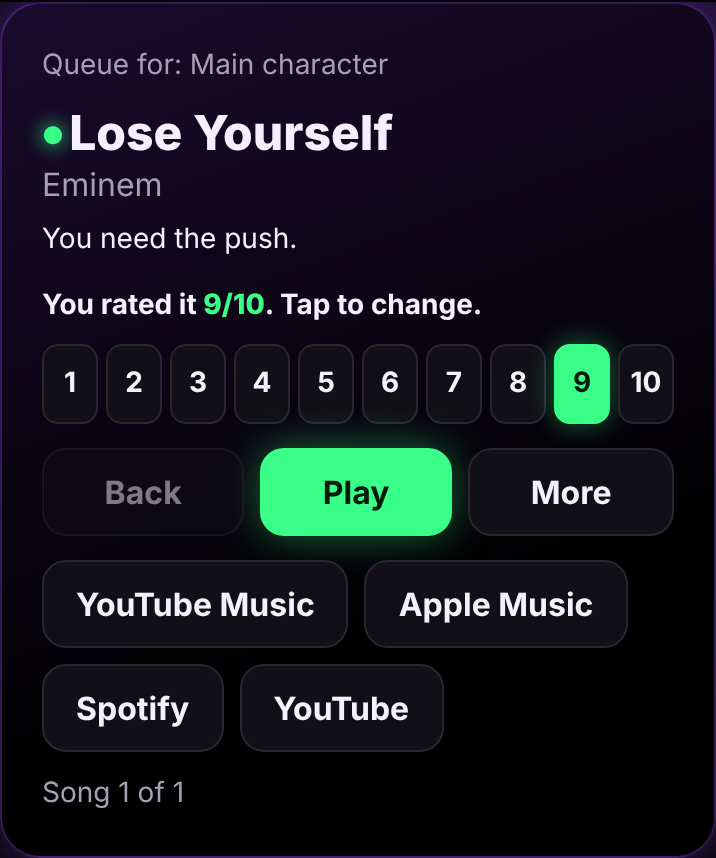
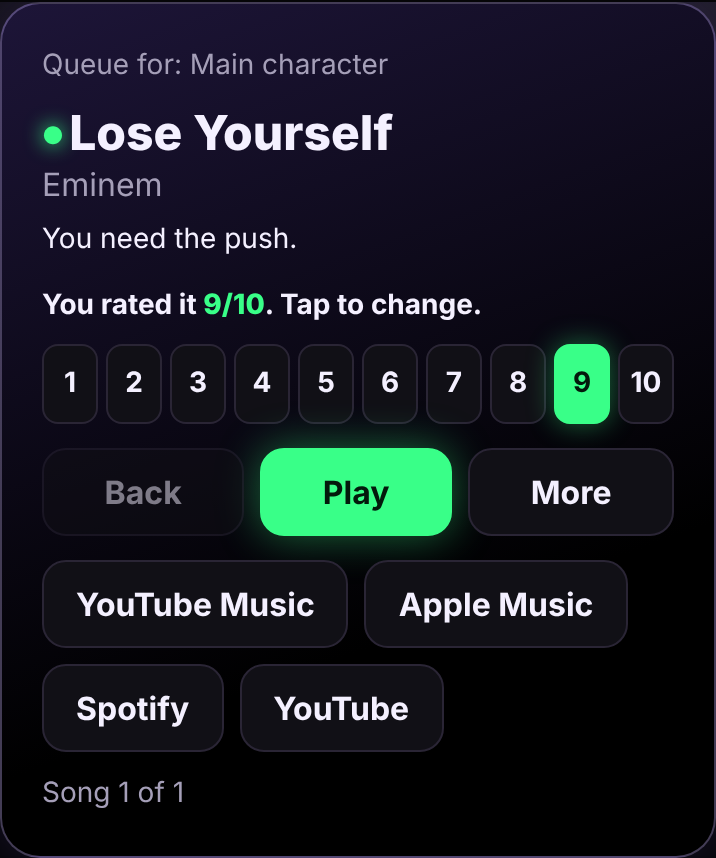
Soft violet palette: deep violet + lilac with neon green pop
Claude-Session: https://claude.ai/code/session_01EesmnuVbHcScWLZNPH6eYi

Changed region(s): [[0.9832, 0.0303, 1.0, 0.9697]]

diff --git a/public/styles.css b/public/styles.css
@@ -1,8 +1,8 @@
-/* STAR_BOA — black, electric purple, neon green for the pop */
+/* STAR_BOA — "Soft violet": black, deep violet + lilac (chill), neon green (pop) */
 :root {
   color-scheme: dark;
   --bg: #050507; --card: #111016; --ink: #f4f0ff; --mute: #a59fb8; --line: #2a2535;
-  --acc: #9d4dff; --accHi: #c08bff; --glow: #9d4dff66;
+  --acc: #3a2a6b; --accHi: #c9b3ff; --accInk: #f1ebff; --glow: #c9b3ff40;
   --neon: #39ff88; --neonInk: #031a0c; --neonGlow: #39ff8866;
 }
 * { box-sizing: border-box; min-width: 0; }
@@ -10,7 +10,7 @@ body {
   margin: 0; color: var(--ink); overflow-x: clip;
   font: 16px/1.55 Archivo, system-ui, sans-serif;
   background:
-    radial-gradient(900px 500px at 85% -10%, #9d4dff2e, transparent 70%),
+    radial-gradient(900px 500px at 85% -10%, #c9b3ff2e, transparent 70%),
     radial-gradient(700px 420px at -10% 105%, #39ff8814, transparent 70%),
     var(--bg);
   background-attachment: fixed;
@@ -22,7 +22,7 @@ body {
 }
 header { display: flex; align-items: center; justify-content: space-between; gap: 12px; flex-wrap: wrap; }
 h1 { display: inline-block; font-size: clamp(32px, 7vw, 48px); line-height: 1.05; margin: 0; font-weight: 800; letter-spacing: -.02em;
-  background: linear-gradient(90deg, #f4f0ff 0%, #c08bff 55%, var(--neon) 100%); -webkit-background-clip: text; background-clip: text; color: transparent;
+  background: linear-gradient(90deg, #f1ebff 0%, var(--accHi) 50%, var(--neon) 100%); -webkit-background-clip: text; background-clip: text; color: transparent;
   filter: drop-shadow(0 0 18px var(--glow)); }
 h2 { font-size: 22px; line-height: 1.2; margin: 28px 0 6px; }
 .h3 { font-size: 20px; margin: 0 0 4px; }
@@ -34,7 +34,7 @@ h2 { font-size: 22px; line-height: 1.2; margin: 28px 0 6px; }
 
 nav { display: flex; gap: 6px; margin: 20px 0 18px; border-bottom: 1px solid var(--line); }
 nav a { flex: 1; text-align: center; padding: 12px 6px; color: var(--mute); text-decoration: none; font-weight: 700; border-bottom: 3px solid transparent; margin-bottom: -1px; }
-nav a[aria-current=page] { color: var(--ink); border-image: linear-gradient(90deg, var(--acc), var(--neon)) 1; }
+nav a[aria-current=page] { color: var(--ink); border-image: linear-gradient(90deg, var(--accHi), var(--neon)) 1; }
 section[hidden] { display: none; }
 
 button, .btn {
@@ -44,12 +44,13 @@ button, .btn {
 }
 button:disabled { opacity: .5; cursor: not-allowed; }
 :focus-visible { outline: 3px solid var(--accHi); outline-offset: 2px; }
-.primary, .btn.on { background: var(--acc); border-color: var(--accHi); color: #fff; }
+.primary, .btn.on { background: var(--acc); border-color: #c9b3ff66; color: var(--accInk); }
+.primary:hover, .btn.on:hover { border-color: var(--accHi); }
 input, textarea { font: inherit; font-size: 16px; width: 100%; padding: 10px 12px; border-radius: 12px; border: 1px solid var(--line); background: var(--card); color: var(--ink); }
 textarea { min-height: 84px; resize: vertical; margin-top: 8px; }
 label { font-weight: 700; display: block; margin: 18px 0 6px; }
 
-.hero { display: grid; grid-template-columns: 150px minmax(0, 1fr); gap: 20px; align-items: center; background: var(--card); border: 1px solid var(--line); border-radius: 20px; padding: 20px; box-shadow: 0 0 0 1px #9d4dff33, 0 10px 40px -20px var(--acc); }
+.hero { display: grid; grid-template-columns: 150px minmax(0, 1fr); gap: 20px; align-items: center; background: var(--card); border: 1px solid var(--line); border-radius: 20px; padding: 20px; box-shadow: 0 0 0 1px #c9b3ff33, 0 10px 40px -20px var(--acc); }
 .hero svg { width: 150px; height: 150px; }
 .spin .disc { animation: spin 1.6s linear infinite; transform-origin: 75px 75px; }
 @keyframes spin { to { transform: rotate(360deg); } }
@@ -59,13 +60,13 @@ label { font-weight: 700; display: block; margin: 18px 0 6px; }
 .ask input { flex: 1 1 200px; }
 .chips { display: flex; flex-wrap: wrap; gap: 8px; }
 .chips button { border-radius: 99px; font-weight: 500; }
-.chips button[aria-pressed=true] { background: var(--acc); border-color: var(--accHi); color: #fff; box-shadow: 0 0 12px #9d4dff88; }
+.chips button[aria-pressed=true] { background: var(--acc); border-color: var(--accHi); color: var(--accInk); box-shadow: 0 0 14px #c9b3ff40; }
 
 .msg { min-height: 22px; font-size: 14px; color: var(--neon); margin: 8px 0 0; }
 .err { color: #ff8fb1; }
 .row { display: flex; gap: 8px; flex-wrap: wrap; margin-top: 12px; }
 
-.np { margin-top: 16px; background: linear-gradient(160deg, #1a0b2e, #000 70%); border: 1px solid #9d4dff55; border-radius: 20px; padding: 20px; box-shadow: 0 0 40px -12px var(--acc); }
+.np { margin-top: 16px; background: linear-gradient(160deg, #1d1538, #000 70%); border: 1px solid #c9b3ff55; border-radius: 20px; padding: 20px; box-shadow: 0 0 40px -12px var(--acc); }
 .np .row button { flex: 1 1 auto; justify-content: center; }
 #playPause { background: var(--neon); border-color: var(--neon); color: var(--neonInk); box-shadow: 0 0 22px var(--neonGlow); }
 #playPause:hover { filter: brightness(1.08); }
@@ -83,7 +84,7 @@ label { font-weight: 700; display: block; margin: 18px 0 6px; }
 .a { color: var(--mute); }
 .why { font-size: 14px; margin: 4px 0 0; }
 .tags { display: flex; flex-wrap: wrap; gap: 6px; margin-top: 6px; }
-.tag { font-size: 13px; padding: 2px 8px; border-radius: 99px; background: #9d4dff26; }
+.tag { font-size: 13px; padding: 2px 8px; border-radius: 99px; background: var(--acc); color: var(--accHi); }
 .tag.src { background: transparent; border: 1px solid #39ff8855; color: var(--neon); }
 .acts { display: flex; flex-wrap: wrap; gap: 6px; margin-top: 10px; }
 .acts .btn, .acts button { min-height: 40px; padding: 0 12px; font-size: 14px; border-radius: 10px; }
@@ -100,7 +101,7 @@ label { font-weight: 700; display: block; margin: 18px 0 6px; }
 .mem i { color: var(--mute); font-style: normal; }
 .empty { color: var(--mute); font-size: 14px; }
 
-dialog { background: var(--card); color: var(--ink); border: 1px solid var(--acc); border-radius: 16px; max-width: 360px; width: 90vw; }
+dialog { background: var(--card); color: var(--ink); border: 1px solid var(--accHi); border-radius: 16px; max-width: 360px; width: 90vw; }
 dialog::backdrop { background: #000a; }
 
 @media (max-width: 600px) {

diff --git a/public/index.html b/public/index.html
@@ -40,7 +40,7 @@
           <circle cx="75" cy="75" r="40" fill="none" stroke="#ffffff14"/>
           <path d="M30 40 A60 60 0 0 1 75 15" stroke="#ffffff30" stroke-width="3" fill="none" stroke-linecap="round"/>
           <circle cx="75" cy="75" r="26" fill="none" stroke="#39ff88" stroke-width="2" opacity=".9"/>
-          <circle cx="75" cy="75" r="24" fill="#9d4dff"/>
+          <circle cx="75" cy="75" r="24" fill="#3a2a6b"/>
           <path d="M75 59 l4.4 9.6 10.4 1.2 -7.7 7.1 2.1 10.3 -9.2 -5.2 -9.2 5.2 2.1 -10.3 -7.7 -7.1 10.4 -1.2z" fill="#39ff88"/>
           <circle cx="75" cy="75" r="3.5" fill="#050507"/>
         </g>

diff --git a/public/sw.js b/public/sw.js
@@ -1,6 +1,6 @@
 // Minimal service worker: caches the app shell so STAR_BOA opens instantly and installs as an app.
 // API calls always go to the network (charts and picks must be fresh).
-const CACHE = "star-boa-v3";
+const CACHE = "star-boa-v4";
 const SHELL = ["/", "/index.html", "/styles.css", "/app.js", "/icon.svg", "/manifest.webmanifest"];
 
 self.addEventListener("install", (e) => {
